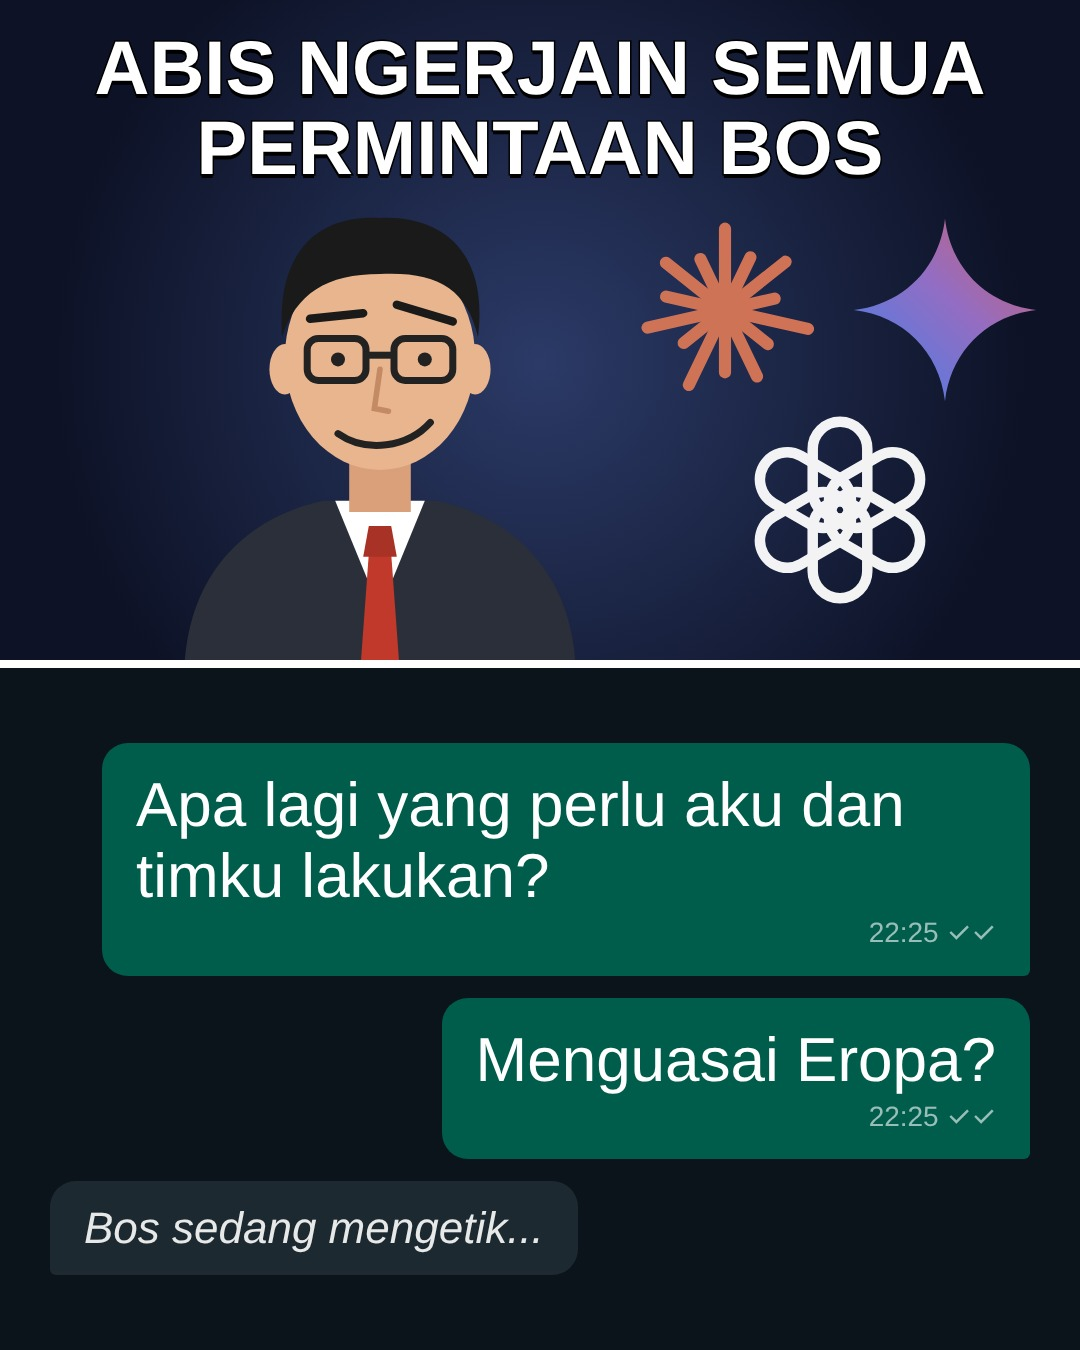
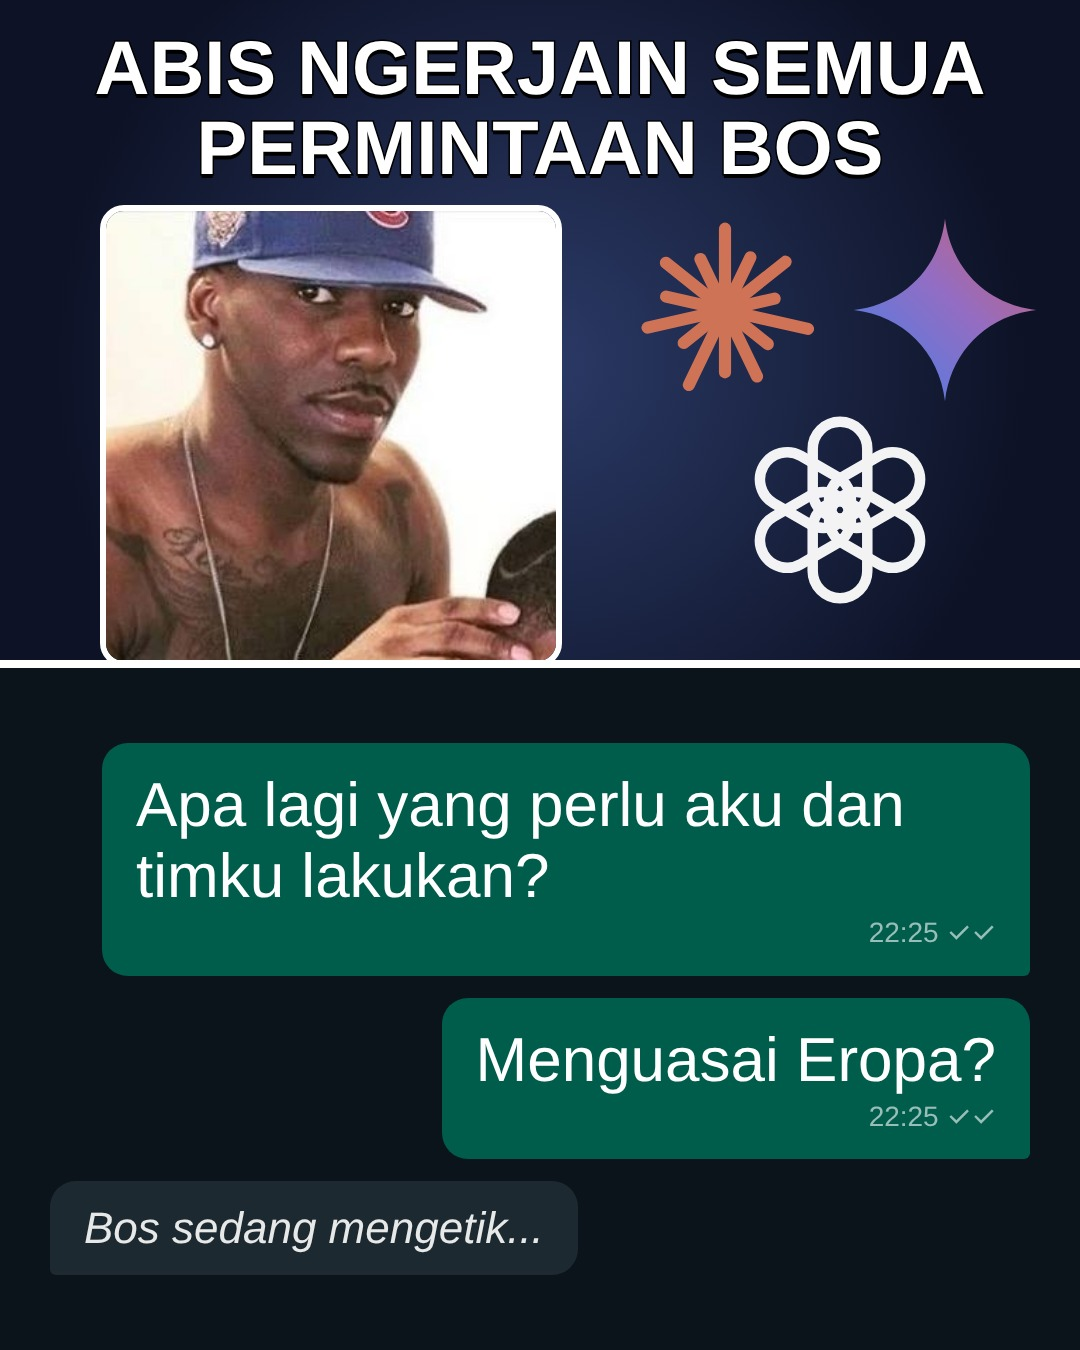
Use supplied photo in meme top panel
Claude-Session: https://claude.ai/code/session_01G3hR7SsQD2r2QowmGgfysE

Changed region(s): [[0.0917, 0.1244, 0.5194, 0.4978]]

diff --git a/meme/meme.html b/meme/meme.html
@@ -15,22 +15,7 @@
  <div class="lg" style="left:630px;top:215px"><svg viewBox="-50 -50 100 100" width="190" height="190"><g fill="#D97757"><rect x="-3.2" y="-46" width="6.4" height="46" rx="3.2" transform="rotate(0.0)"/><rect x="-3.2" y="-34" width="6.4" height="34" rx="3.2" transform="rotate(25.714285714285715)"/><rect x="-3.2" y="-44" width="6.4" height="44" rx="3.2" transform="rotate(51.42857142857143)"/><rect x="-3.2" y="-30" width="6.4" height="30" rx="3.2" transform="rotate(77.14285714285714)"/><rect x="-3.2" y="-48" width="6.4" height="48" rx="3.2" transform="rotate(102.85714285714286)"/><rect x="-3.2" y="-32" width="6.4" height="32" rx="3.2" transform="rotate(128.57142857142858)"/><rect x="-3.2" y="-42" width="6.4" height="42" rx="3.2" transform="rotate(154.28571428571428)"/><rect x="-3.2" y="-36" width="6.4" height="36" rx="3.2" transform="rotate(180.0)"/><rect x="-3.2" y="-47" width="6.4" height="47" rx="3.2" transform="rotate(205.71428571428572)"/><rect x="-3.2" y="-31" width="6.4" height="31" rx="3.2" transform="rotate(231.42857142857144)"/><rect x="-3.2" y="-45" width="6.4" height="45" rx="3.2" transform="rotate(257.14285714285717)"/><rect x="-3.2" y="-35" width="6.4" height="35" rx="3.2" transform="rotate(282.8571428571429)"/><rect x="-3.2" y="-43" width="6.4" height="43" rx="3.2" transform="rotate(308.57142857142856)"/><rect x="-3.2" y="-33" width="6.4" height="33" rx="3.2" transform="rotate(334.2857142857143)"/></g></svg></div>
  <div class="lg" style="left:850px;top:215px"><svg viewBox="-50 -50 100 100" width="190" height="190"><defs><linearGradient id="g" x1="0" y1="1" x2="1" y2="0"><stop offset="0" stop-color="#4285f4"/><stop offset=".55" stop-color="#9b72cb"/><stop offset="1" stop-color="#d96570"/></linearGradient></defs><path fill="url(#g)" d="M0-48C3-22 22-3 48 0 22 3 3 22 0 48-3 22-22 3-48 0-22-3-3-22 0-48Z"/></svg></div>
  <div class="lg" style="left:735px;top:405px"><svg viewBox="-50 -50 100 100" width="210" height="210"><g fill="none" stroke="#fff" stroke-width="5"><rect x="-13" y="-44" width="26" height="46" rx="13" transform="rotate(0) translate(0,2)"/><rect x="-13" y="-44" width="26" height="46" rx="13" transform="rotate(60) translate(0,2)"/><rect x="-13" y="-44" width="26" height="46" rx="13" transform="rotate(120) translate(0,2)"/><rect x="-13" y="-44" width="26" height="46" rx="13" transform="rotate(180) translate(0,2)"/><rect x="-13" y="-44" width="26" height="46" rx="13" transform="rotate(240) translate(0,2)"/><rect x="-13" y="-44" width="26" height="46" rx="13" transform="rotate(300) translate(0,2)"/></g></svg></div>
- <div class="man" style="bottom:-20px;left:380px"><svg viewBox="0 0 300 380" width="420" height="532">
-<path d="M10 380 C10 300 60 262 110 252 L190 252 C240 262 290 300 290 380Z" fill="#2b2f3a"/>
-<path d="M118 252 L150 330 L182 252Z" fill="#fff"/>
-<path d="M142 290 L158 290 L164 372 L150 384 L136 372Z" fill="#c0392b"/>
-<path d="M142 270 L158 270 L162 292 L138 292Z" fill="#a93226"/>
-<rect x="128" y="215" width="44" height="45" fill="#d9a07a"/>
-<ellipse cx="150" cy="150" rx="68" ry="80" fill="#e8b58f"/>
-<ellipse cx="82" cy="158" rx="11" ry="18" fill="#e8b58f"/><ellipse cx="218" cy="158" rx="11" ry="18" fill="#e8b58f"/>
-<path d="M80 135 C75 60 120 48 150 50 C190 48 228 70 220 135 C212 100 190 88 150 90 C112 90 90 104 80 135Z" fill="#1a1a1a"/>
-<g fill="none" stroke="#222" stroke-width="5"><rect x="98" y="136" width="42" height="30" rx="8"/><rect x="160" y="136" width="42" height="30" rx="8"/><path d="M140 148 H160"/></g>
-<circle cx="120" cy="151" r="5" fill="#222"/><circle cx="182" cy="151" r="5" fill="#222"/>
-<path d="M100 122 L138 118" stroke="#1a1a1a" stroke-width="6" stroke-linecap="round"/>
-<path d="M162 112 L202 124" stroke="#1a1a1a" stroke-width="6" stroke-linecap="round"/>
-<path d="M150 158 L146 186 L156 188" fill="none" stroke="#c48a63" stroke-width="4" stroke-linecap="round"/>
-<path d="M120 204 C140 218 170 214 186 196" fill="none" stroke="#222" stroke-width="5" stroke-linecap="round"/>
-</svg></div>
+ <img src="rudi.jpg" style="position:absolute;left:100px;top:205px;width:450px;height:450px;object-fit:cover;border-radius:24px;border:6px solid #fff;z-index:2">
 </div>
 <div class="sep"></div>
 <div class="panel2">
